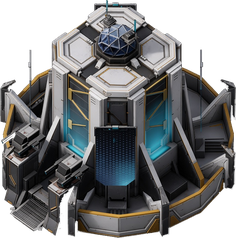
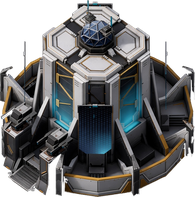
Fit the isometric Silo photograph to the 3x3 footprint.
The new render is keyed, cropped, and scaled so its octagonal base ring matches the 2:1 ground diamond. Team trim is cached for all ten colors.

diff --git a/src/game/siloImage.ts b/src/game/siloImage.ts
@@ -1,18 +1,20 @@
 import { PLAYER_COLOR } from './types'
 
 /**
- * The Silo sprite is the reference photograph, keyed and cropped.
+ * The Silo sprite is the reference render, keyed and cropped.
+ * The octagonal base ring is scaled to the 3×3 footprint diamond (192×96).
+ * The anchor is that ring's center, a few pixels high so the lip sits on the ground.
  * Orange trim is hue-mapped to the team color. Cyan glass is left alone.
  * The drop shadow is drawn by the renderer, not baked into the photo.
  */
 
 const SRC = '/assets/silo.png'
-/** Footprint center, as a fraction of the cropped photo. The pad sits on the diamond. */
-const AX_FRAC = 0.5
-const AY_FRAC = 0.67
+/** Footprint center on the 195×197 sprite. The base ring is 192px wide. */
+const AX_FRAC = 98 / 195
+const AY_FRAC = 144 / 197
 /** Hex gate on the front face. */
-const GATE_X_FRAC = 0.5
-const GATE_Y_FRAC = 0.64
+const GATE_X_FRAC = 99 / 195
+const GATE_Y_FRAC = 123 / 197
 
 type Anchor = { canvas: HTMLCanvasElement; ax: number; ay: number }
 
@@ -28,6 +30,8 @@ export function preloadSiloImage(): void {
   image.decoding = 'async'
   image.onload = () => {
     ready = true
+    for (const color of PLAYER_COLOR) siloPhotoSprite(color, false)
+    if (photo) ruinSprite(photo)
   }
   image.src = SRC
   photo = image
@@ -45,8 +49,8 @@ function anchorOf(width: number, height: number): { ax: number; ay: number } {
 
 /** Gate position relative to the footprint center, in sprite pixels. */
 export function siloGateOffset(): { x: number; y: number } {
-  const width = photo?.width || 236
-  const height = photo?.height || 238
+  const width = photo?.width || 195
+  const height = photo?.height || 197
   const anchor = anchorOf(width, height)
   return { x: width * GATE_X_FRAC - anchor.ax, y: height * GATE_Y_FRAC - anchor.ay }
 }

diff --git a/src/game/render.ts b/src/game/render.ts
@@ -445,7 +445,7 @@ function drawBuilding(ctx: CanvasRenderingContext2D, state: MatchState, building
     ctx.save()
     ctx.fillStyle = 'rgba(12, 22, 10, 0.34)'
     ctx.beginPath()
-    ctx.ellipse(at.x + 10, at.y + 16, 86, 30, -0.2, 0, Math.PI * 2)
+    ctx.ellipse(at.x + 2, at.y + 8, 78, 26, -0.12, 0, Math.PI * 2)
     ctx.fill()
     ctx.restore()
     const sprite = keepSprite(color, building.ruined)
